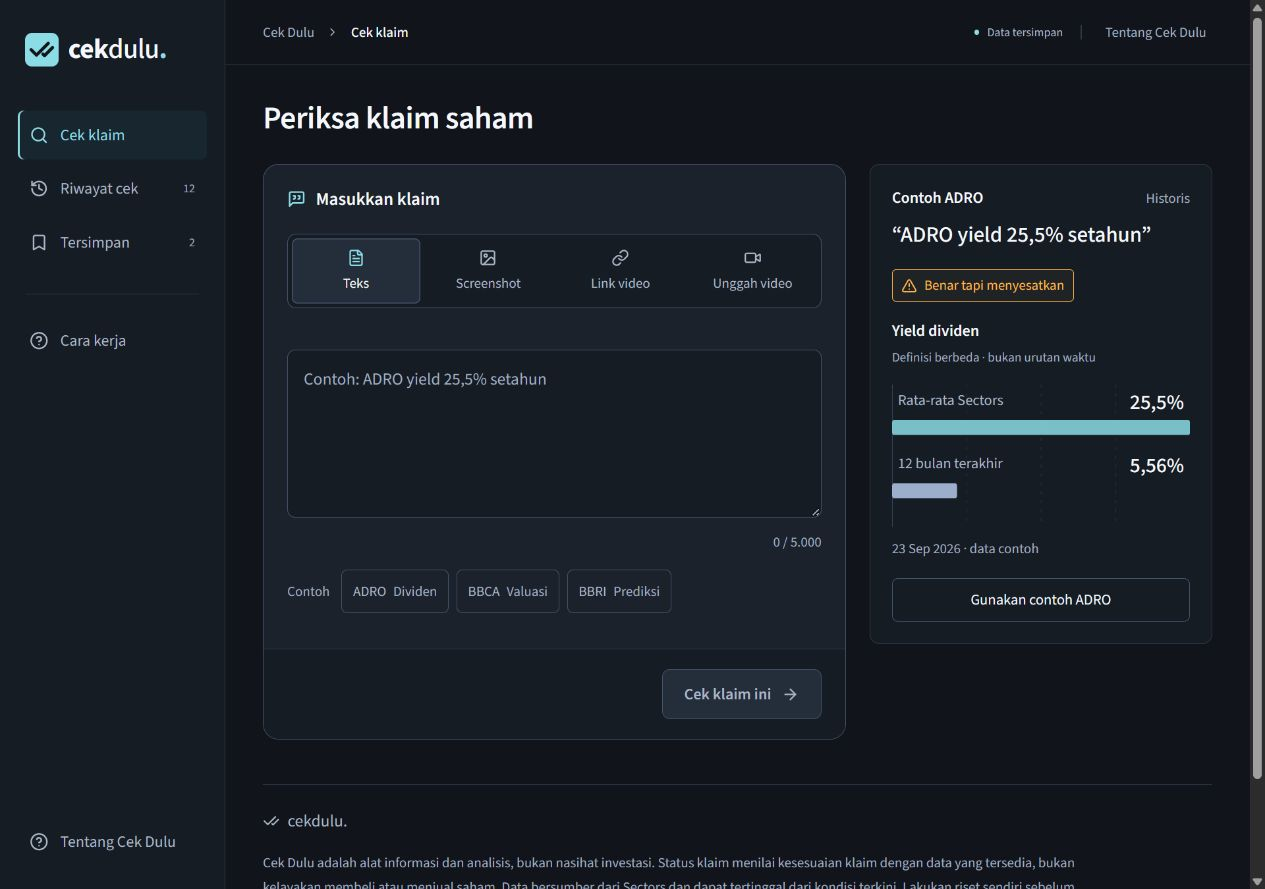
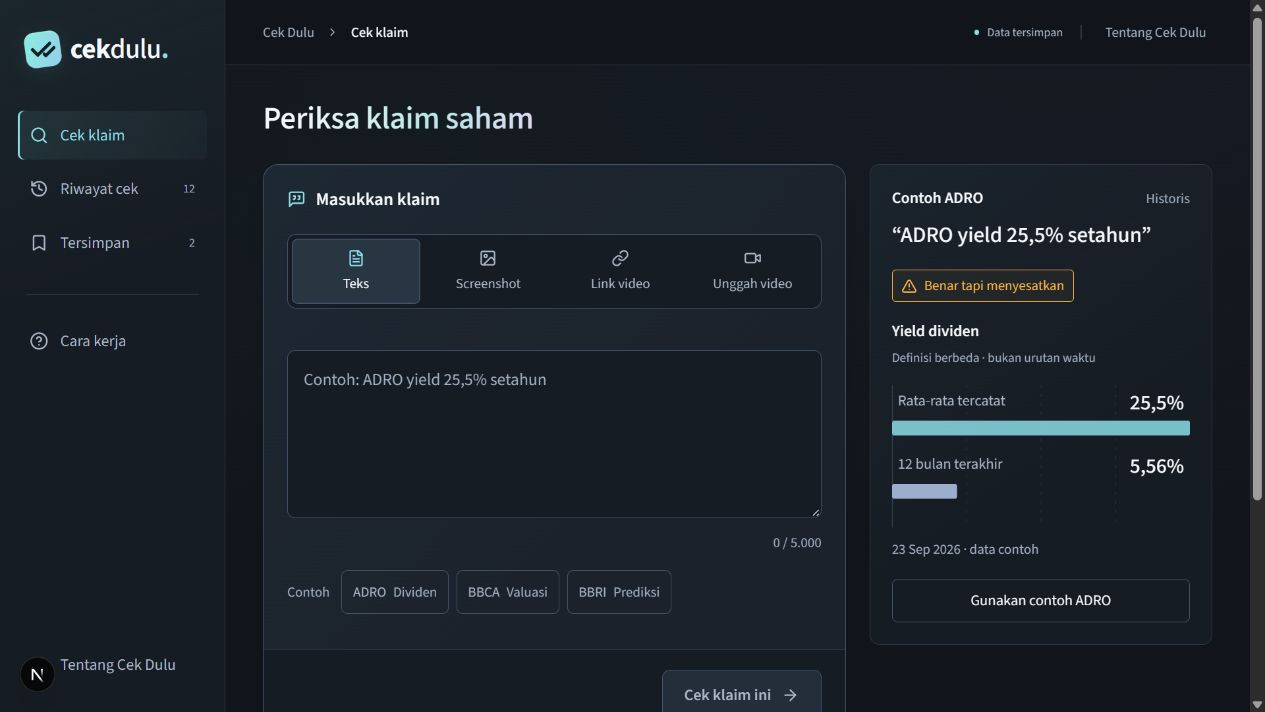
feat: unify page typography and restore soft brand gradients

diff --git a/apps/web/styles/styles.css b/apps/web/styles/styles.css
@@ -1,6 +1,6 @@
 * { box-sizing: border-box; }
 html { scroll-behavior: smooth; }
-body { margin: 0; background: var(--canvas); color: var(--ink); font-family: var(--font-ui); font-size: 16px; font-synthesis: none; }
+body { margin: 0; background: radial-gradient(ellipse at 85% 0, #6176a012, transparent 55%), radial-gradient(ellipse at 25% 30%, #48b9ad09, transparent 48%), var(--canvas); background-attachment: fixed; color: var(--ink); font-family: var(--font-ui); font-size: 16px; font-synthesis: none; }
 body:has(dialog[open]) { overflow: hidden; }
 button, input, textarea, select { font: inherit; color: inherit; }
 button, a { -webkit-tap-highlight-color: transparent; }
@@ -17,16 +17,17 @@ svg { flex-shrink: 0; }
 .sr-only { position: absolute; width: 1px; height: 1px; padding: 0; margin: -1px; overflow: hidden; clip: rect(0,0,0,0); white-space: nowrap; border: 0; }
 .app-shell { min-height: 100vh; }
 .eyebrow, .small-tag, .history-count { font-size: 14px; font-weight: 400; color: var(--subtle); }
-.sidebar { position: fixed; inset: 0 auto 0 0; width: 228px; background: var(--surface); border-right: 1px solid var(--line); z-index: 30; display: flex; flex-direction: column; padding: 30px 18px 18px; }
+.sidebar { position: fixed; inset: 0 auto 0 0; width: 228px; background: linear-gradient(160deg, #21313670, transparent 38%), var(--surface); border-right: 1px solid var(--line); z-index: 30; display: flex; flex-direction: column; padding: 30px 18px 18px; }
 .brand { display: flex; align-items: center; gap: 10px; font-weight: 700; font-size: 28px; letter-spacing: -.6px; padding: 0 7px; margin-bottom: 42px; color: var(--ink); }
-.brand-mark { width: 34px; height: 34px; display: grid; place-items: center; background: var(--accent); color: var(--canvas); border-radius: 7px; }
+.brand-mark { width: 36px; height: 36px; display: grid; place-items: center; background: var(--accent-gradient); color: #102126; border-radius: 10px; transform: rotate(-8deg); box-shadow: 0 3px 16px #73ddd51c, inset 0 1px 0 #ffffff40; }
+.brand-mark svg { transform: rotate(8deg); }
 .brand-light { font-weight: 500; }
 .brand-period { color: var(--accent); }
 .status-dot { width: 5px; height: 5px; border-radius: 50%; background: currentColor; display: inline-block; flex-shrink: 0; }
 .nav-item { display: flex; align-items: center; gap: 12px; padding: 13px 12px; width: 100%; color: var(--muted); border-radius: 6px; font-size: 16px; min-height: 48px; text-align: left; margin-bottom: 5px; }
 .nav-item > span:nth-child(2) { flex: 1; }
 .nav-item:hover { background: var(--surface-hover); color: var(--ink); }
-.nav-item.active { background: #37d7ff0e; color: var(--accent); box-shadow: inset 2px 0 var(--accent); }
+.nav-item.active { background: linear-gradient(100deg, #8aeee017, #94cfe908); color: var(--accent); box-shadow: inset 2px 0 var(--accent); }
 .nav-count, .nav-shortcut { font-family: var(--font-data); font-size: 12px; color: var(--subtle); }
 .nav-divider { height: 1px; background: var(--line); margin: 22px 8px; }
 .sidebar-bottom { margin-top: auto; padding-top: 50px; }
@@ -42,7 +43,11 @@ svg { flex-shrink: 0; }
 .mobile-menu { display: none !important; }
 main { max-width: 1480px; margin: 0 auto; padding: 0 38px; }
 .page-heading { padding: 34px 0 26px; }
-.page-heading h1 { font-size: clamp(28px, 2.5vw, 36px); line-height: 1.25; letter-spacing: -.5px; font-weight: 600; }
+.page-heading h1, .collection-heading h1, .guide-page > h1 { font-family: var(--font-display); font-size: var(--page-title-size); line-height: 1.25; letter-spacing: -.5px; font-weight: 600; }
+@supports (background-clip: text) {
+  .page-heading h1, .collection-heading h1, .guide-page > h1 { background: var(--title-gradient); background-clip: text; color: transparent; width: fit-content; }
+  .brand-period { background: var(--accent-gradient); background-clip: text; color: transparent; }
+}
 .page-heading p { color: var(--muted); margin-top: 8px; }
 .section-heading { display: flex; align-items: center; justify-content: space-between; gap: 16px; margin-bottom: 18px; }
 .section-heading > div { display: flex; align-items: center; gap: 12px; flex-wrap: wrap; }
@@ -50,7 +55,7 @@ main { max-width: 1480px; margin: 0 auto; padding: 0 38px; }
 .section-heading h2 { font-size: 22px; font-weight: 600; letter-spacing: -.3px; }
 .quiet-label { font-size: 12px; display: flex; align-items: center; gap: 7px; color: var(--subtle); }
 .check-layout { display: grid; grid-template-columns: minmax(0,1.7fr) minmax(280px,1fr); align-items: flex-start; gap: 24px; }
-.input-card { background: var(--surface-raised); border: 1px solid var(--line-bright); border-radius: var(--radius); overflow: hidden; }
+.input-card { background: linear-gradient(135deg, #8aeee008, transparent 60%), var(--surface-raised); border: 1px solid var(--line-bright); border-radius: var(--radius); overflow: hidden; box-shadow: 0 8px 32px #00000012; }
 .input-card:focus-within { border-color: #3c6374; }
 .input-card-heading { display: flex; align-items: center; justify-content: space-between; gap: 15px; padding: 22px 24px 0; font-size: 18px; font-weight: 600; }
 .input-card-heading > span:first-child { display: flex; align-items: center; gap: 10px; }
@@ -69,12 +74,12 @@ main { max-width: 1480px; margin: 0 auto; padding: 0 38px; }
 .example-chip:hover, .example-chip.selected { border-color: var(--line-bright); background: var(--surface-hover); color: var(--ink); }
 .input-card-footer { display: flex; align-items: center; justify-content: flex-end; gap: 12px; padding: 20px 24px; background: var(--surface); border-top: 1px solid var(--line); margin-top: 22px; }
 .input-card-footer > span { display: flex; align-items: center; gap: 7px; font-size: 12px; color: var(--subtle); max-width: 180px; }
-.primary-button { background: var(--accent); color: #102126; border: 1px solid var(--accent); display: inline-flex; align-items: center; justify-content: center; gap: 10px; border-radius: 8px; padding: 13px 22px; min-height: 48px; font-size: 16px; font-weight: 600; transition: background 160ms, transform 160ms; }
-.primary-button:hover:not(:disabled) { background: #b1e9ef; transform: translateY(-1px); }
+.primary-button { background: var(--accent-gradient); color: #102126; border: 1px solid #a0e0e4; display: inline-flex; align-items: center; justify-content: center; gap: 10px; border-radius: 8px; padding: 13px 22px; min-height: 48px; font-size: 16px; font-weight: 600; box-shadow: inset 0 1px 0 #ffffff38, 0 3px 12px #73ddd512; transition: filter 160ms, transform 160ms; }
+.primary-button:hover:not(:disabled) { filter: brightness(1.07); transform: translateY(-1px); }
 .secondary-button { display: inline-flex; justify-content: center; align-items: center; gap: 10px; padding: 13px 22px; min-height: 48px; border: 1px solid var(--line-bright); border-radius: 8px; color: var(--ink); font-size: 16px; background: var(--surface); }
 .secondary-button:hover:not(:disabled) { background: var(--surface-hover); }
-.primary-button:disabled { background: var(--surface-hover); border-color: var(--line-bright); color: var(--muted); opacity: 1; }
-.investigation-preview { position: relative; background: var(--surface); border: 1px solid var(--line); border-radius: 10px; padding: 22px; }
+.primary-button:disabled { background: var(--surface-hover); border-color: var(--line-bright); color: var(--muted); opacity: 1; box-shadow: none; }
+.investigation-preview { position: relative; background: linear-gradient(145deg, #94cfe90a, transparent 60%), var(--surface); border: 1px solid var(--line); border-radius: 10px; padding: 22px; }
 .preview-header { display: flex; gap: 10px; justify-content: space-between; align-items: center; }
 .preview-header h2 { font-size: 16px; font-weight: 600; }
 .preview-label { font-size: 14px; color: var(--subtle); }
@@ -134,7 +139,7 @@ main { max-width: 1480px; margin: 0 auto; padding: 0 38px; }
 .context-finding-title { display: flex; gap: 8px; align-items: center; color: var(--amber); margin-bottom: 9px; }
 .context-finding h3 { font-size: 16px; font-weight: 600; }
 .context-finding > p { font-size: 15px; color: var(--muted); }
-.report-evidence { padding: 28px 24px; border-left: 1px solid var(--line); background: var(--surface-raised); }
+.report-evidence { padding: 28px 24px; border-left: 1px solid var(--line); background: linear-gradient(160deg, #8aeee008, transparent 65%), var(--surface-raised); }
 .metric-compare { display: grid; grid-template-columns: minmax(0,1fr) 18px minmax(0,1fr); align-items: center; gap: 10px; }
 .metric-compare > svg { color: var(--subtle); }
 .metric-compare span { font-size: 14px; color: var(--subtle); display: block; }
@@ -175,7 +180,7 @@ main { max-width: 1480px; margin: 0 auto; padding: 0 38px; }
 .verdict-signals svg { color: var(--accent); }
 .verdict-signals li + li svg { color: var(--amber); }
 .context-findings { display: grid; gap: 12px; margin-top: 22px; }
-.context-tile { padding: 16px; background: var(--surface-raised); border: 1px solid #604725; border-radius: 8px; }
+.context-tile { padding: 16px; background: linear-gradient(125deg, #ffb54709, transparent 70%), var(--surface-raised); border: 1px solid #604725; border-radius: 8px; }
 .context-tile-title { display: flex; gap: 10px; align-items: center; color: var(--amber); }
 .context-tile-title h3 { font-size: 17px; font-weight: 600; }
 .context-metrics { display: grid; grid-template-columns: repeat(2,minmax(0,1fr)); gap: 16px; margin: 18px 0 0; }
@@ -291,8 +296,8 @@ main { max-width: 1480px; margin: 0 auto; padding: 0 38px; }
 summary { cursor: pointer; min-height: 44px; display: list-item; padding-block: 10px; }
 .collection-page, .guide-page { padding-top: 45px; min-height: 60vh; }
 .collection-heading { display: flex; gap: 20px; align-items: center; justify-content: space-between; margin-bottom: 30px; }
-.collection-heading h1, .guide-page > h1 { font-family: var(--font-display); font-size: clamp(32px,3.2vw,46px); letter-spacing: -1px; font-weight: 500; line-height: 1.2; }
 .collection-heading p, .guide-intro { font-size: 16px; color: var(--muted); margin-top: 13px; }
+.build-revision { font-size: 14px; color: var(--subtle); font-variant-numeric: tabular-nums; }
 .history-toolbar { display: flex; gap: 20px; align-items: center; border-block: 1px solid var(--line); padding: 14px 0; }
 .search-field { display: flex; align-items: center; gap: 10px; flex: 1; color: var(--subtle); }
 .search-field input { border: 0; padding: 10px 4px; background: transparent; font-size: 13px; width: 100%; min-width: 0; }
@@ -414,7 +419,6 @@ footer > button { display: flex; align-items: center; gap: 8px; color: var(--sub
   .trace-list time { display: none; }
   .collection-page, .guide-page { padding-top: 30px; }
   .collection-heading { align-items: flex-start; flex-direction: column; gap: 18px; }
-  .collection-heading h1, .guide-page > h1 { font-size: 34px; }
   .history-toolbar { flex-wrap: wrap; gap: 6px; }
   .search-field { flex-basis: 100%; }
   .filter-field { width: 100%; justify-content: space-between; }
@@ -438,6 +442,8 @@ footer > button { display: flex; align-items: center; gap: 8px; color: var(--sub
   *, *::before, *::after { animation: none !important; transition: none !important; }
 }
 @media (forced-colors: active) {
+  .page-heading h1, .collection-heading h1, .guide-page > h1, .brand-period { color: CanvasText; background: none; }
+  .brand-mark { color: ButtonText; background: ButtonFace; border: 1px solid ButtonText; }
   .verdict, .input-card, .report-card, .investigation-preview { border-color: ButtonText; }
   .primary-button { border: 1px solid ButtonText; }
 }

diff --git a/apps/web/components/workspace.tsx b/apps/web/components/workspace.tsx
@@ -501,7 +501,7 @@ export default function Workspace({ fixtureDemo }: { fixtureDemo: boolean }) {
                 </section>
               )}
 
-              {llmReady === false && !demo && <p className="integration-error" role="status">Konfigurasi LLM belum tersedia. Pemeriksaan normal memerlukan konfigurasi server dan cache Sectors. Demo fixture dapat dipakai untuk menguji alur.</p>}
+              {llmReady === false && !demo && <p className="integration-error" role="status">Pemeriksaan belum tersedia. Konfigurasi AI dan data tersimpan perlu disiapkan di server. Contoh offline dapat dipakai untuk mencoba alur.</p>}
               {error && <p className="integration-error" role="alert">{error}</p>}
               {traces.length > 0 && !running && <details className="trace-panel">
                 <summary>Jejak pemeriksaan · {traces.length} event</summary>
@@ -671,7 +671,7 @@ export default function Workspace({ fixtureDemo }: { fixtureDemo: boolean }) {
                   {
                     icon: ChartNoAxesCombined,
                     title: "Perbandingan data",
-                    text: "Pada produk terintegrasi, data Sectors menjadi pembanding. Perhitungan dilakukan oleh kode, dengan periode yang sesuai.",
+                    text: "Data saham menjadi pembanding. Angka diperiksa melalui perhitungan, dengan periode yang sesuai.",
                   },
                   {
                     icon: Layers3,
@@ -772,11 +772,12 @@ export default function Workspace({ fixtureDemo }: { fixtureDemo: boolean }) {
         >
           <p>
             Cek Dulu membantu investor ritel memahami klaim saham melalui bukti
-            dan konteks. Dibuat untuk Sectors Hackathon 2026.
+            dan konteks.
           </p>
           <p>
             Mode demo berisi ilustrasi offline. Pemeriksaan normal memerlukan konfigurasi server dan data cache yang tersedia.
           </p>
+          <p className="build-revision">Revisi sumber saat build: {process.env.NEXT_PUBLIC_SOURCE_REVISION ?? 'tidak tersedia'}</p>
         </Modal>
       )}
 

diff --git a/apps/web/test/ui-contract.test.ts b/apps/web/test/ui-contract.test.ts
@@ -61,7 +61,7 @@ describe('rapor dan riwayat UI memakai hasil shared', () => {
       { checkId: 'c', ts: fixture.input.createdAt, stage: 'error', message: 'Data kedua kosong', credits: 0 },
     ] }));
     expect(html).toContain('Memeriksa angka'); expect(html).toContain('Ada kendala');
-    expect(html).toContain('2 kredit Sectors'); expect(html).not.toContain('Memisahkan klaim');
+    expect(html).toContain('2 kredit data'); expect(html).not.toContain('Memisahkan klaim');
     expect(html).not.toContain('trace-active');
   });
   it('contoh UI sama dengan input fixture pipeline dan SSR tanpa localStorage', () => {
@@ -90,7 +90,7 @@ it('data kosong diberi label eksplisit', () => {
   expect(formatEvidence({value: 'empty'})).toBe('Data belum tersedia');
 });
 it('nama field dan rumus fixture menjadi teks terbaca tanpa mengubah angka atau label lain', () => {
-  expect(readableSourceText('Angka Sectors dividend_yield_avg.avg_yield')).toBe('Rata-rata yield dividen menurut Sectors');
+  expect(readableSourceText('Angka Sectors dividend_yield_avg.avg_yield')).toBe('Rata-rata yield dividen yang dilaporkan');
   expect(readableSourceText('sum(total_yield per tahun) / jumlah tahun')).toBe('Jumlah yield tahunan dibagi jumlah tahun');
   expect(readableSourceText('PER sintetis untuk pengujian')).toBe('PER sintetis untuk pengujian');
   expect(readableSourceText('2021–2025')).toBe('2021–2025');

diff --git a/apps/web/lib/report-presentation.ts b/apps/web/lib/report-presentation.ts
@@ -31,11 +31,11 @@ export type SourceChart = { key: string; title: string; note: string; rows: Char
 export function sourceCharts(evidence: Evidence[], claim?: Claim, verdict?: ClaimVerdict): SourceChart[] {
   const charts: SourceChart[] = [];
   const yieldLabels: Record<string, string> = {
-    'Angka Sectors dividend_yield_avg.avg_yield': 'Rata-rata Sectors', 'Yield TTM': '12 bulan terakhir',
+    'Angka Sectors dividend_yield_avg.avg_yield': 'Rata-rata tercatat', 'Yield TTM': '12 bulan terakhir',
     'Yield pembayaran khusus': 'Pembayaran khusus',
-    'Rata-rata mandiri sekitar 23,6%; ringkasan AGENTS.md, bukan dihitung ulang dari data tahunan di fixture': 'Rata-rata mandiri',
+    'Rata-rata mandiri sekitar 23,6%; ringkasan AGENTS.md, bukan dihitung ulang dari data tahunan di fixture': 'Rata-rata hitung ulang',
   };
-  const yieldMetrics: Record<string, string> = { 'dividend.avg_yield': 'Rata-rata Sectors', 'dividend.yield_ttm': '12 bulan terakhir' };
+  const yieldMetrics: Record<string, string> = { 'dividend.avg_yield': 'Rata-rata tercatat', 'dividend.yield_ttm': '12 bulan terakhir' };
   const yields = evidence.flatMap(record => {
     const meta = record.params.hunter;
     const metric = meta && typeof meta === 'object' && !Array.isArray(meta) ? (meta as Record<string, unknown>).metric : undefined;

diff --git a/apps/web/components/evidence-explorer.tsx b/apps/web/components/evidence-explorer.tsx
@@ -45,7 +45,7 @@ export default function EvidenceExplorer({ evidence, verdict, claim, demo, onClo
         <summary><span>{readableSourceText(record.label)}</span><strong>{formatEvidence(record)}</strong><ChevronDown size={16} aria-hidden="true" /></summary>
         <dl><div><dt>Nilai lengkap</dt><dd>{formatEvidence(record, 20)}</dd></div>
           <div><dt>Diambil</dt><dd>{new Date(record.fetchedAt).toLocaleString('id-ID', { timeZone: 'Asia/Jakarta', dateStyle: 'medium', timeStyle: 'short' })} WIB</dd></div>
-          <div><dt>Asal</dt><dd>{demo || record.tool.startsWith('fixture:') ? 'Fixture contoh, bukan data pasar terkini' : record.cached ? 'Data tersimpan' : 'Sectors API'}</dd></div>
+          <div><dt>Asal</dt><dd>{demo || record.tool.startsWith('fixture:') ? 'Fixture contoh, bukan data pasar terkini' : record.cached ? 'Sectors · data tersimpan' : 'Sectors API'}</dd></div>
           {Object.entries(record.params).filter(([key]) => key in sourceParamLabels).map(([key, value]) => <div key={key}><dt>{sourceParamLabels[key]}</dt><dd>{readableSourceText(String(value))}</dd></div>)}
         </dl>
       </details>)}

diff --git a/apps/web/styles/integration.css b/apps/web/styles/integration.css
@@ -10,7 +10,7 @@
 .input-modes { display: grid; grid-template-columns: repeat(4,minmax(0,1fr)); gap: 4px; padding: 4px; border: 1px solid var(--line-bright); border-radius: 9px; background: var(--surface); }
 .input-modes button { display: flex; flex-direction: column; align-items: center; justify-content: center; gap: 7px; padding: 10px 4px; min-height: 66px; font-size: 14px; border-radius: 6px; color: var(--muted); transition: background 160ms, color 160ms; }
 .input-modes button:hover:not(:disabled) { background: var(--surface-hover); color: var(--ink); }
-.input-modes button[aria-pressed=true] { background: var(--surface-hover); color: var(--ink); box-shadow: inset 0 0 0 1px var(--line-bright); }
+.input-modes button[aria-pressed=true] { background: linear-gradient(125deg, #8aeee00b, #94cfe90b), var(--surface-hover); color: var(--ink); box-shadow: inset 0 0 0 1px var(--line-bright); }
 .input-modes button[aria-pressed=true] svg { color: var(--accent); }
 .media-panel { margin-top: 22px; animation: panel-in 160ms ease-out; }
 @keyframes panel-in { from { opacity: 0; transform: translateY(4px); } }

diff --git a/apps/web/components/investigation-preview.tsx b/apps/web/components/investigation-preview.tsx
@@ -12,8 +12,8 @@ export default function InvestigationPreview({ onExplore, disabled = false }: { 
     <blockquote>“{fixture.input.rawText}”</blockquote>
     <VerdictBadge verdict="misleading" />
     <SourceChart chart={{ key: 'example-yield', title: 'Yield dividen', note: 'Definisi berbeda · bukan urutan waktu', rows: [
-      { label: 'Rata-rata Sectors', value: avg.value as number, display: formatEvidence(avg), detail: 'Rata-rata historis menurut Sectors' },
-      { label: '12 bulan terakhir', value: ttm.value as number, display: formatEvidence(ttm), detail: 'Yield TTM menurut Sectors' },
+      { label: 'Rata-rata tercatat', value: avg.value as number, display: formatEvidence(avg), detail: 'Rata-rata yield dividen yang dilaporkan' },
+      { label: '12 bulan terakhir', value: ttm.value as number, display: formatEvidence(ttm), detail: 'Yield dividen 12 bulan terakhir' },
     ] }} />
     <span className="preview-provenance">23 Sep 2026 · data contoh</span>
     <button type="button" className="preview-action" disabled={disabled} onClick={onExplore}>Gunakan contoh ADRO</button>

diff --git a/apps/web/lib/check-view.ts b/apps/web/lib/check-view.ts
@@ -41,7 +41,7 @@ export function formatEvidence(evidence: Pick<Evidence, 'value' | 'unit'>, maxim
 /** Present documented fixture field names as prose without changing evidence or values. */
 export function readableSourceText(text: string): string {
   const labels: Record<string, string> = {
-    'Angka Sectors dividend_yield_avg.avg_yield': 'Rata-rata yield dividen menurut Sectors',
+    'Angka Sectors dividend_yield_avg.avg_yield': 'Rata-rata yield dividen yang dilaporkan',
     'sum(total_yield per tahun) / jumlah tahun': 'Jumlah yield tahunan dibagi jumlah tahun',
     'Cash payout ratio': 'Rasio pembayaran dividen terhadap kas',
     'Rata-rata mandiri sekitar 23,6%; ringkasan AGENTS.md, bukan dihitung ulang dari data tahunan di fixture':

diff --git a/apps/web/components/trace-timeline.tsx b/apps/web/components/trace-timeline.tsx
@@ -23,6 +23,6 @@ export default function TraceTimeline({ events, running = false }: { events: Tra
       })}
       {running && !events.length && <li className="trace-active"><span className="trace-icon"><Circle size={13} /></span><div><strong>Memulai pemeriksaan</strong><p>Menunggu respons server.</p></div></li>}
     </ol>
-    <details className="console-metadata"><summary>Penggunaan data</summary><p>{events.reduce((total, event) => total + (event.credits ?? 0), 0)} kredit Sectors tercatat dalam jejak ini.</p></details>
+    <details className="console-metadata"><summary>Penggunaan data</summary><p>{events.reduce((total, event) => total + (event.credits ?? 0), 0)} kredit data tercatat dalam jejak ini.</p></details>
   </section>;
 }

diff --git a/apps/web/test/report-presentation.test.ts b/apps/web/test/report-presentation.test.ts
@@ -104,6 +104,7 @@ describe('source charts do not require fabricated history', () => {
     const charts = sourceCharts(fixture.result.evidence, claim, verdict);
     expect(charts[0]?.key).toBe('yield-snapshot');
     expect(charts[0]?.rows.map(row => row.value)).toEqual([0.255, 0.236, 0.452, 0.0556]);
+    expect(charts[0]?.rows.map(row => row.label)).toEqual(['Rata-rata tercatat', 'Rata-rata hitung ulang', 'Pembayaran khusus', '12 bulan terakhir']);
     expect(charts[0]?.note).toContain('bukan urutan waktu');
     expect(charts[0]?.rows.every(row => fixture.result.evidence.some(record => record.evidenceId === row.evidenceId))).toBe(true);
   });

diff --git a/apps/web/styles/theme.css b/apps/web/styles/theme.css
@@ -11,6 +11,9 @@
   --line: #2d3847;
   --line-bright: #44546a;
   --accent: #8bdce5;
+  --accent-gradient: linear-gradient(115deg, #8aeee0, #94cfe9);
+  --title-gradient: linear-gradient(110deg, #f4f7fb 12%, #b8e7e5 62%, #e0d7f4);
+  --page-title-size: clamp(28px, 2.5vw, 36px);
   --success: #a6d8ae;
   --amber: #ffb547;
   --danger: #ff5f6d;

diff --git a/docs/ui-design.md b/docs/ui-design.md
@@ -61,7 +61,7 @@ Referensi memberi prinsip, bukan salinan layout atau klaim pemasaran.
   Grafik membandingkan satuan yang sama dan memakai sumbu nol, termasuk nilai
   negatif. Data kosong tidak ditampilkan sebagai nol.
 - Panel sumber langsung membuka grafik SVG interaktif, termasuk ADRO tanpa
-  metadata riwayat: yield rata-rata Sectors, rata-rata mandiri, pembayaran khusus,
+  metadata riwayat: yield rata-rata tercatat, rata-rata hitung ulang, pembayaran khusus,
   dan TTM dibandingkan sebagai definisi berbeda, bukan timeline buatan. Jika
   hanya pembanding tersedia, grafik klaim vs data tetap ditampilkan. Batang bisa
   disentuh/difokuskan untuk nilai lengkap. Status dan tombol tutup tetap terlihat
@@ -92,8 +92,8 @@ memiliki bentuk berbeda sesuai fungsi.
   memakai jaringan mock, termasuk teks lama, fallback, error, dan batas unggahan.
 
 Viewport 1280 × 900 dan 390 × 844 diperiksa tanpa overflow horizontal.
-Pilihan input mobile memiliki tinggi 48px, CTA baca 54px. Kontras teks utama
-terhadap panel 14,90:1, teks bantuan 7,10:1, dan teks CTA 10,62:1.
+Pilihan input mobile memiliki tinggi 48px, CTA baca 54px. Pada palet dasar,
+kontras teks utama terhadap panel 14,90:1 dan teks bantuan 7,10:1.
 ADRO menghasilkan misleading, BBCA supported (fixture sintetis), dan BBRI
 out_of_scope melalui UI offline. Sumber, Escape/pengembalian fokus, simpan rapor,
 serta pencarian riwayat diperiksa langsung.
@@ -110,6 +110,46 @@ Validasi ini membuktikan UI dan alur mock/offline. Ketersediaan video platform,
 akurasi transkripsi langsung, dan kelengkapan cache pasar tidak dibuktikan oleh
 revisi tampilan. Belum ada uji usability bersama pengguna atau audit screen reader
 menyeluruh; penilaian estetika perlu tetap ditinjau tim.
+
+## Konsistensi dan aksen warna
+
+Judul Periksa klaim saham, Riwayat pemeriksaan, Rapor tersimpan, dan panduan
+memakai aturan tipografi yang sama: 28–36px sesuai lebar viewport, bobot 600,
+line-height 1,25. Logo kembali memakai simbol mint bergradien dengan sedikit
+kemiringan. Gradien putih–mint–lavender pada judul, mint–biru pada CTA, dan warna
+transparan pada latar/kartu menambah kedalaman tanpa mengurangi keterbacaan.
+Mode forced-colors kembali memakai warna sistem; reduced-motion tetap berlaku.
+Ukuran ketiga judul diverifikasi di browser: 32px / line-height 40px pada
+viewport 1280px, dan 28px / 35px pada viewport 390px, seluruhnya bobot 600.
+Kontras endpoint gradien CTA terhadap teks gelap minimal 9,75:1; endpoint
+gradien judul terhadap permukaan paling terang minimal 9,94:1.
+
+Label grafik menyebut Rata-rata tercatat dan Rata-rata hitung ulang; identitas
+Sectors tetap di bagian asal data, dokumentasi sumber, dan disclaimer. Bukti
+asli dan perhitungan tidak diubah. Gradien hanya presentasi, bukan indikator status.
+
+## Jika hasil pull masih menampilkan UI lama
+
+UI ini diimpor langsung oleh halaman utama, tanpa feature flag. CHECK_UI_PREVIEW
+hanya memilih direktori build, bukan desain. Service worker saat ini tidak
+menyimpan HTML, CSS, atau respons API, sehingga bukan cache offline desain baru.
+
+1. Pastikan checkout dan remote yang ditarik adalah feat/ui-investigation-console,
+   lalu cocokkan commit terbaru dengan GitHub. Pull branch lain tidak memindahkan
+   checkout secara otomatis.
+2. Hentikan proses server lama pada mesin tersebut. Build ulang tidak mengganti
+   proses next start yang sudah berjalan; proses itu perlu dijalankan ulang.
+3. Jalankan instalasi dan build dari root repo. Build dan start harus memakai
+   CHECK_UI_PREVIEW yang sama: default .next, atau preview .next-ui-preview.
+4. Buka port yang tertulis di terminal server baru. Port 3000 dapat masih dilayani
+   proses lama ketika proses baru berjalan pada 3001. Muat ulang penuh browser.
+5. Dialog Tentang Cek Dulu menampilkan revisi Git yang dimasukkan saat build.
+   Bandingkan nilai ini dengan commit lokal/remote. Nilainya adalah identitas sumber
+   saat kompilasi, bukan klaim bahwa deployment selalu mengikuti branch terbaru.
+
+Tanpa melihat checkout, revisi build, dan proses di mesin teman, penyebab spesifik
+belum dapat disimpulkan. Repo dan preview lokal saja tidak membuktikan keadaan
+mesin lain.
 
 ## Preview
 
